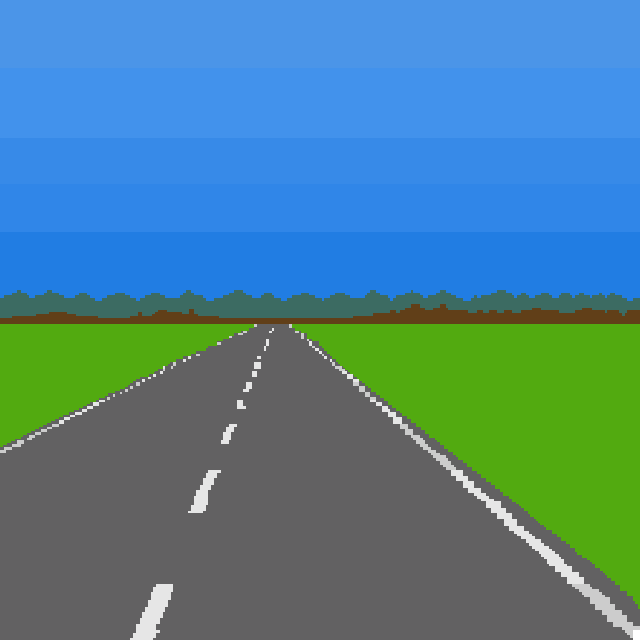
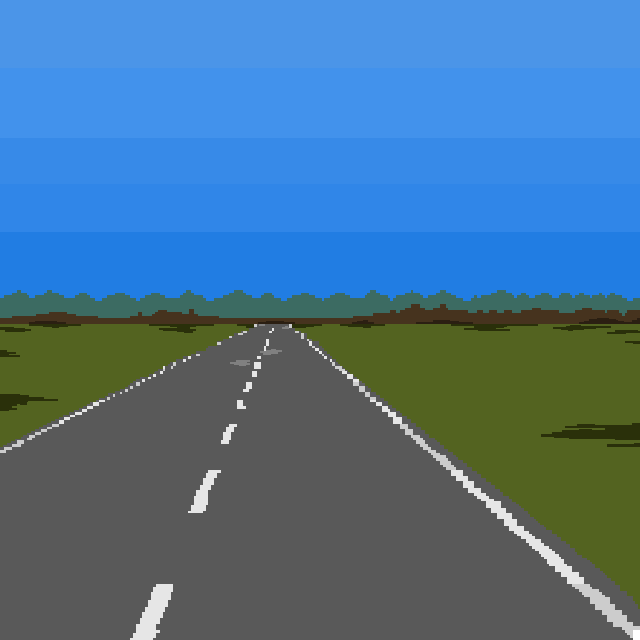
Updated minigame map + assets

Changed region(s): [[0.0, 0.4688, 1.0, 0.9375], [0.375, 0.5625, 0.4062, 0.5938]]

diff --git a/core/src/com/berbils/game/Screens/MiniGameScreen.java b/core/src/com/berbils/game/Screens/MiniGameScreen.java
@@ -207,7 +207,8 @@ public class MiniGameScreen extends PlayScreen
 	 * Create a UFO to spawn in the aliens
 	 */
 	private void createSpawner(){
-		this.spawner = new Spawner(this, new Vector2(1, 0.5f), 30, Kroy.BASE_FIRE_ENGINE_TEX);
+		this.spawner = new Spawner(this, new Vector2(1.5f, 1 ), 30,
+								   Kroy.MINIGAME_UFO_TEX);
 		this.spawner.spawn(new Vector2((this.maploader.getDims().cpy().x / 4), 12));
 	}
 
@@ -221,7 +222,8 @@ public class MiniGameScreen extends PlayScreen
 			// Stop the UFO and then randomise it's next direction
 			this.spawner.randomiseTrajectory();
 			// Create an alien and spawn it
-			Alien alien = new Alien(this, new Vector2(1.5f, 0.75f), 5, 100, Kroy.BASE_FIRE_ENGINE_TEX);
+			Alien alien = new Alien(this, new Vector2(1.5f, 1f), 5, 100,
+									Kroy.MINIGAME_ALIEN_TEX);
 			alien.spawn(this.spawner.getBody().getPosition());
 			this.aliens.add(alien);
 			this.alienTotal -= 1;
@@ -279,7 +281,6 @@ public class MiniGameScreen extends PlayScreen
 				alien.moveTowards(this.player.getBody().getPosition());
 			}
 		}
-
 		// Allow UFO to move again if all aliens beamed down
 		// When no more aliens, fly away
 		this.spawner.move(allowUFOMovement, this.alienTotal <= 0);

diff --git a/core/src/com/berbils/game/Kroy.java b/core/src/com/berbils/game/Kroy.java
@@ -58,6 +58,8 @@ public class Kroy extends Game
 	public static String GAME_PAUSED_TITLE = "ScreenTitles/GamePaused.png";
 	public static String CITY_MAP_TEX = "CityMap/CityMap2.png";
 	public static String MINIGAME_MAP_TEX = "MinigameMap/minigame.png"; //NEW
+	public static String MINIGAME_UFO_TEX = "MinigameMap/ufo1.png"; //NEW
+	public static String MINIGAME_ALIEN_TEX = "MinigameMap/alien.png"; //NEW
 	// : Added minigame map texture
 	public static AssetManager assets;
 	public SpriteBatch batch;
@@ -100,6 +102,10 @@ public class Kroy extends Game
 		assets.load(GAME_PAUSED_TITLE, Texture.class);
 		assets.load(CITY_MAP_TEX, Texture.class);
 		assets.load(MINIGAME_MAP_TEX, Texture.class); //NEW: Added minigame map
+		assets.load(MINIGAME_UFO_TEX, Texture.class); //New: Added minigame
+		// ufo texture
+		assets.load(MINIGAME_ALIEN_TEX, Texture.class); //New: Added minigame
+		// alien
 		// texture asset
 		assets.finishLoading();
 		V_HEIGHT = Gdx.graphics.getHeight();
